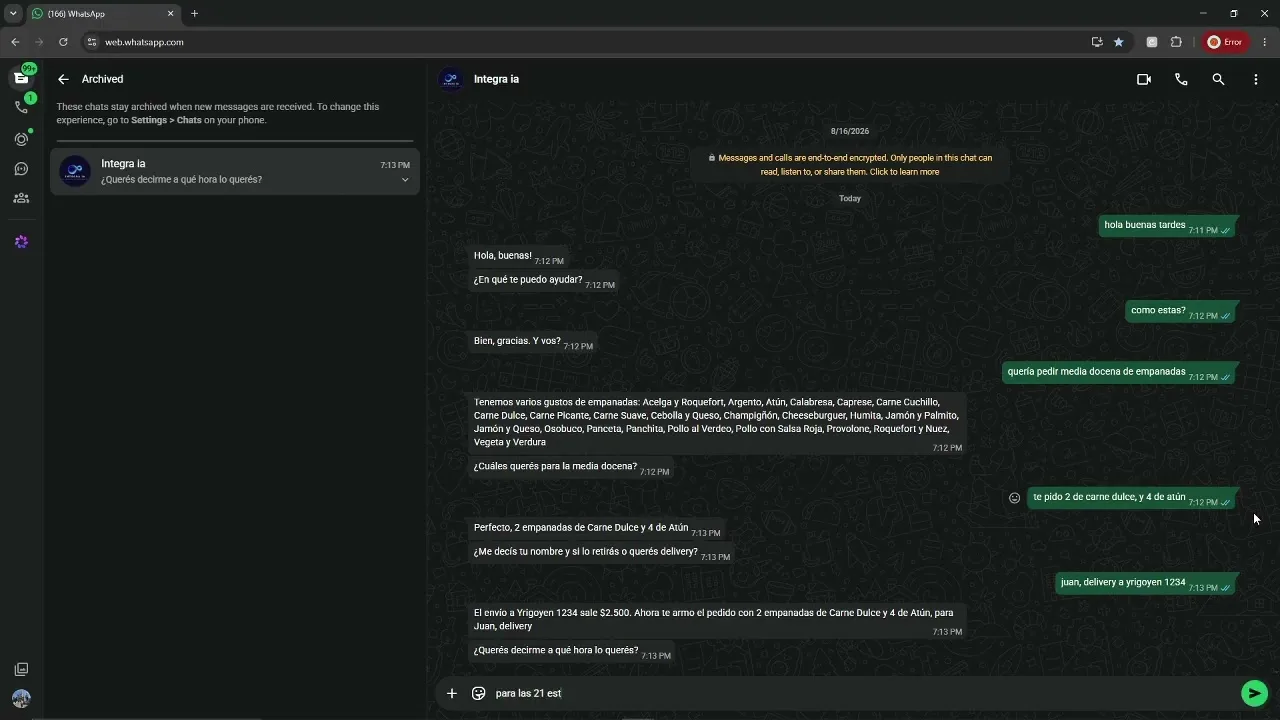
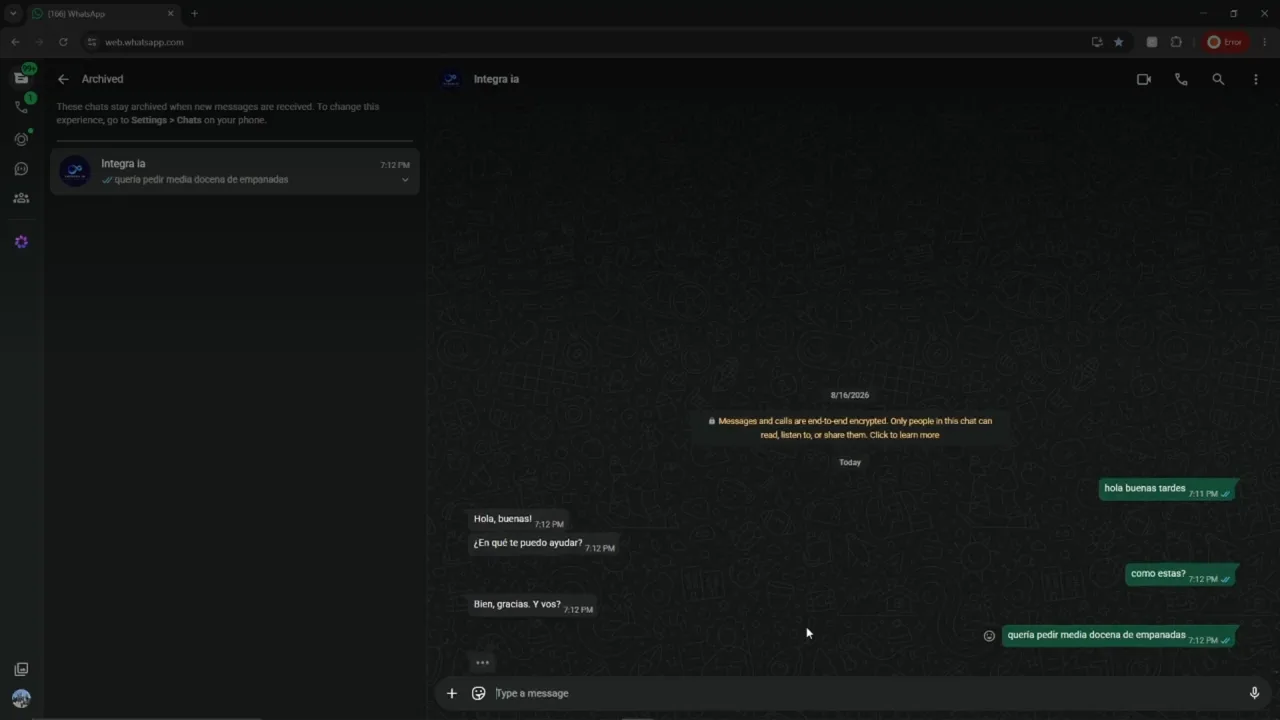
fix: la demo de atención al cliente apunta al video sin audio
El video anterior (DG3fdCKBG-w) dejó de estar disponible al resubirlo:
daba 404, así que el reproductor estaba roto en el home y en la página
del agente. Ahora ambos usan 5pUdzcoTYc8.

El nuevo se subió sin sonido, que era el objetivo: el reproductor de
YouTube siempre le deja el control de volumen al visitante, así que la
única forma de garantizar que nadie escuche nada era que no hubiera nada
que escuchar. Medido con webkitAudioDecodedByteCount, subiendo el volumen
al máximo por código: 1.2 kbps contra los 108.5 kbps de un video con
narración — o sea una pista en silencio.

Se mantiene data-mute="1" en los dos bloques igual: cuesta nada y deja el
autoplay fuera de discusión en cualquier navegador.

El poster se rehízo desde el video nuevo, en el segundo 0:40, donde ya se
ve la conversación armada en vez del chat vacío.

diff --git a/dist/index.html b/dist/index.html
@@ -598,11 +598,13 @@
         <p class="section-head__sub reveal-up">Así conversa un agente real con un cliente: natural, al instante, con el tono de la marca.</p>
       </header>
 
-      <!-- Demo: agente de atención al cliente (YouTube no listado, ID DG3fdCKBG-w).
+      <!-- Demo: agente de atención al cliente (YouTube no listado, ID 5pUdzcoTYc8).
            Para cambiarlo, editar el data-yt de abajo: solo el ID, lo que va después
-           de "?v=" o de "youtu.be/". Vacío = vuelve al cartel "próximamente". -->
+           de "?v=" o de "youtu.be/". Vacío = vuelve al cartel "próximamente".
+           Este video se subió SIN pista de audio a propósito: así no hay forma
+           de que un visitante le active el sonido desde el reproductor. -->
       <figure class="demo__frame reveal-up">
-        <div class="ytlite" data-yt="DG3fdCKBG-w" data-mute="1" data-title="Demo — agente de atención al cliente respondiendo en vivo">
+        <div class="ytlite" data-yt="5pUdzcoTYc8" data-mute="1" data-title="Demo — agente de atención al cliente respondiendo en vivo">
           <div class="demo__placeholder" role="img" aria-label="Demo en video — próximamente">
             <img class="ytlite__poster" src="assets/videos/atencion-cliente.webp" alt="Primer cuadro del video: el agente de atención al cliente respondiendo por WhatsApp"
                  width="1280" height="720" loading="lazy" decoding="async" />

diff --git a/index.html b/index.html
@@ -598,11 +598,13 @@
         <p class="section-head__sub reveal-up">Así conversa un agente real con un cliente: natural, al instante, con el tono de la marca.</p>
       </header>
 
-      <!-- Demo: agente de atención al cliente (YouTube no listado, ID DG3fdCKBG-w).
+      <!-- Demo: agente de atención al cliente (YouTube no listado, ID 5pUdzcoTYc8).
            Para cambiarlo, editar el data-yt de abajo: solo el ID, lo que va después
-           de "?v=" o de "youtu.be/". Vacío = vuelve al cartel "próximamente". -->
+           de "?v=" o de "youtu.be/". Vacío = vuelve al cartel "próximamente".
+           Este video se subió SIN pista de audio a propósito: así no hay forma
+           de que un visitante le active el sonido desde el reproductor. -->
       <figure class="demo__frame reveal-up">
-        <div class="ytlite" data-yt="DG3fdCKBG-w" data-mute="1" data-title="Demo — agente de atención al cliente respondiendo en vivo">
+        <div class="ytlite" data-yt="5pUdzcoTYc8" data-mute="1" data-title="Demo — agente de atención al cliente respondiendo en vivo">
           <div class="demo__placeholder" role="img" aria-label="Demo en video — próximamente">
             <img class="ytlite__poster" src="assets/videos/atencion-cliente.webp" alt="Primer cuadro del video: el agente de atención al cliente respondiendo por WhatsApp"
                  width="1280" height="720" loading="lazy" decoding="async" />

diff --git a/agentes/atencion-cliente.html b/agentes/atencion-cliente.html
@@ -131,7 +131,7 @@
       </section>
 
       <!-- ── VIDEO ── -->
-      <!-- Agente de atención al cliente (YouTube no listado, ID DG3fdCKBG-w). Es el mismo
+      <!-- Agente de atención al cliente (YouTube no listado, ID 5pUdzcoTYc8). Es el mismo
            video de la sección #demo del home. Para cambiarlo, editar el data-yt: solo el ID,
            lo que va después de "?v=" o de "youtu.be/". Vacío = cartel "próximamente". -->
       <section class="apage__section">
@@ -140,7 +140,7 @@
           <p>Una conversación con el agente tal cual la ve el cliente: pregunta por WhatsApp y la respuesta llega sola, en segundos.</p>
         </div>
         <figure class="demo__frame">
-          <div class="ytlite" data-yt="DG3fdCKBG-w" data-title="Agente de atención al cliente respondiendo por WhatsApp">
+          <div class="ytlite" data-yt="5pUdzcoTYc8" data-mute="1" data-title="Agente de atención al cliente respondiendo por WhatsApp">
             <div class="demo__placeholder" role="img" aria-label="Video del agente — próximamente">
               <img class="ytlite__poster" src="../assets/videos/atencion-cliente.webp" alt="Primer cuadro del video: el agente de atención al cliente respondiendo por WhatsApp"
                    width="1280" height="720" loading="lazy" decoding="async" />

diff --git a/dist/agentes/atencion-cliente.html b/dist/agentes/atencion-cliente.html
@@ -131,7 +131,7 @@
       </section>
 
       <!-- ── VIDEO ── -->
-      <!-- Agente de atención al cliente (YouTube no listado, ID DG3fdCKBG-w). Es el mismo
+      <!-- Agente de atención al cliente (YouTube no listado, ID 5pUdzcoTYc8). Es el mismo
            video de la sección #demo del home. Para cambiarlo, editar el data-yt: solo el ID,
            lo que va después de "?v=" o de "youtu.be/". Vacío = cartel "próximamente". -->
       <section class="apage__section">
@@ -140,7 +140,7 @@
           <p>Una conversación con el agente tal cual la ve el cliente: pregunta por WhatsApp y la respuesta llega sola, en segundos.</p>
         </div>
         <figure class="demo__frame">
-          <div class="ytlite" data-yt="DG3fdCKBG-w" data-title="Agente de atención al cliente respondiendo por WhatsApp">
+          <div class="ytlite" data-yt="5pUdzcoTYc8" data-mute="1" data-title="Agente de atención al cliente respondiendo por WhatsApp">
             <div class="demo__placeholder" role="img" aria-label="Video del agente — próximamente">
               <img class="ytlite__poster" src="../assets/videos/atencion-cliente.webp" alt="Primer cuadro del video: el agente de atención al cliente respondiendo por WhatsApp"
                    width="1280" height="720" loading="lazy" decoding="async" />
